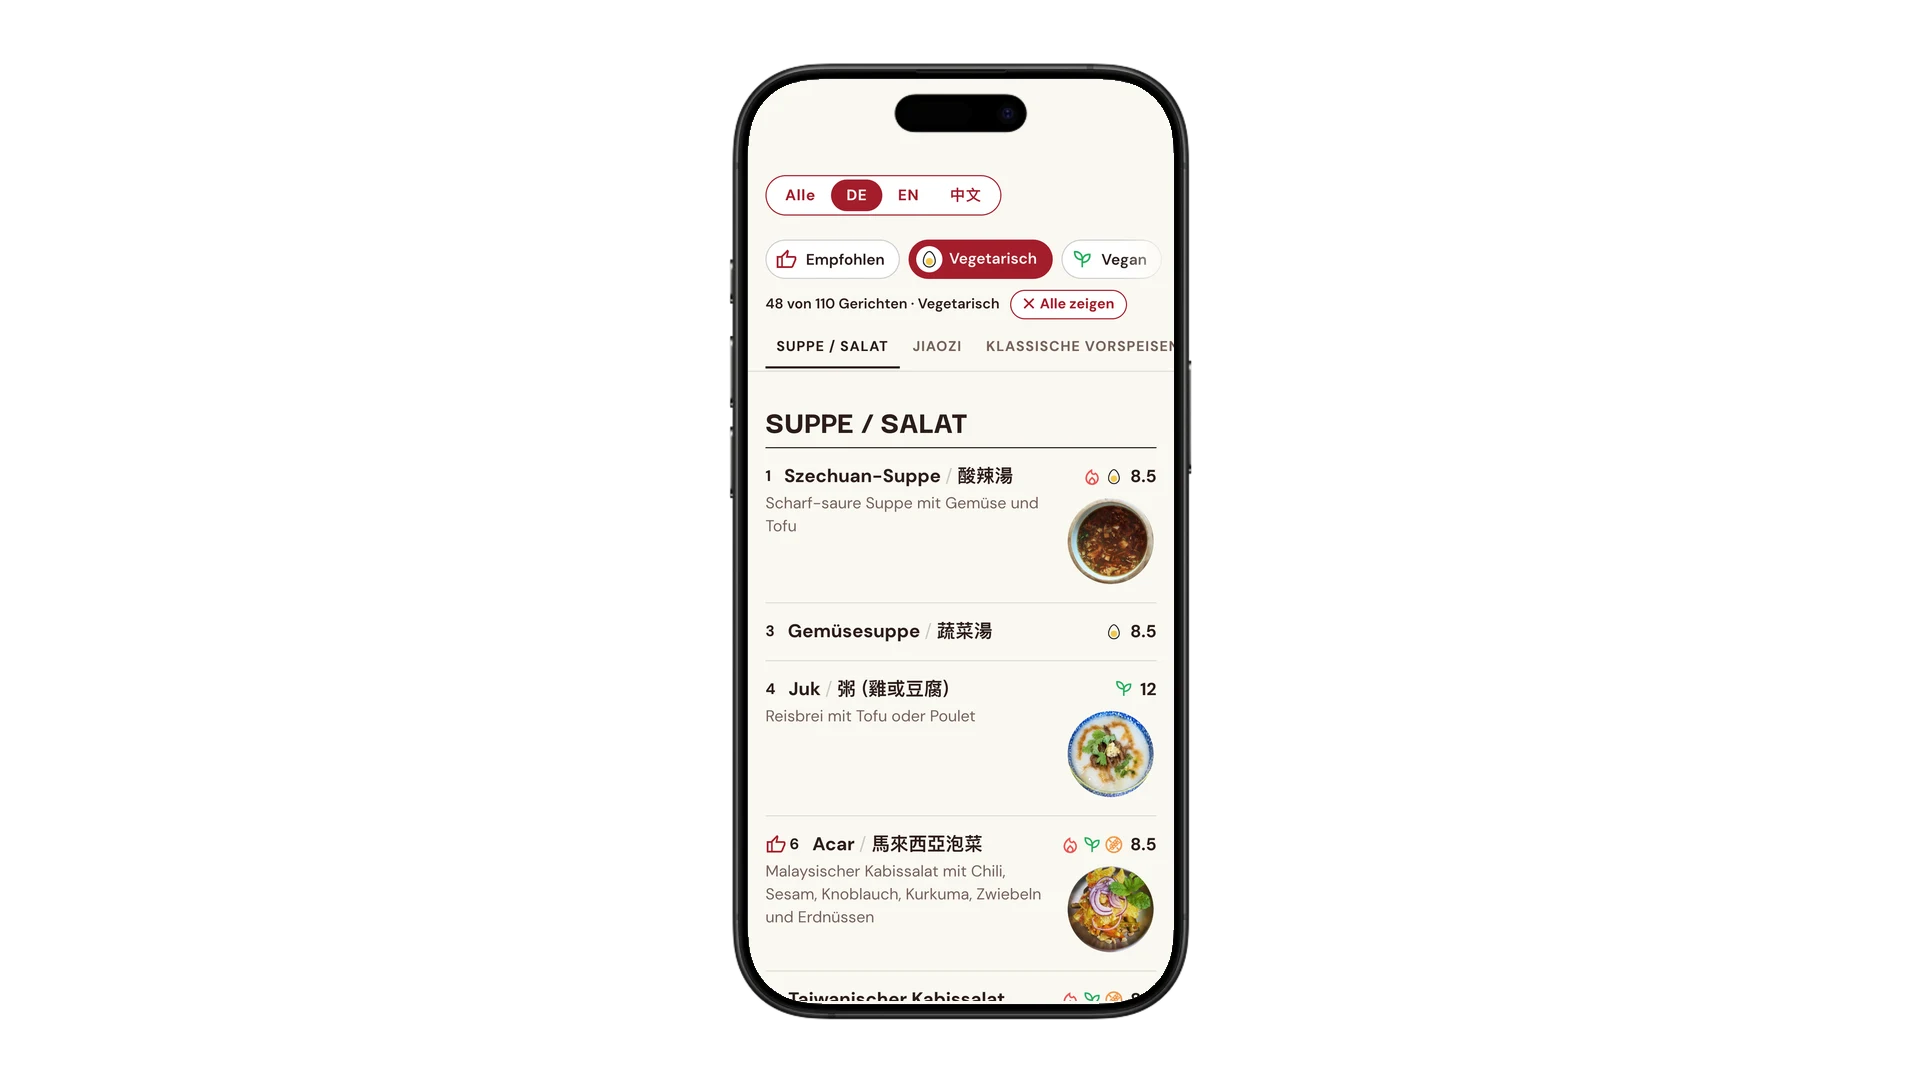
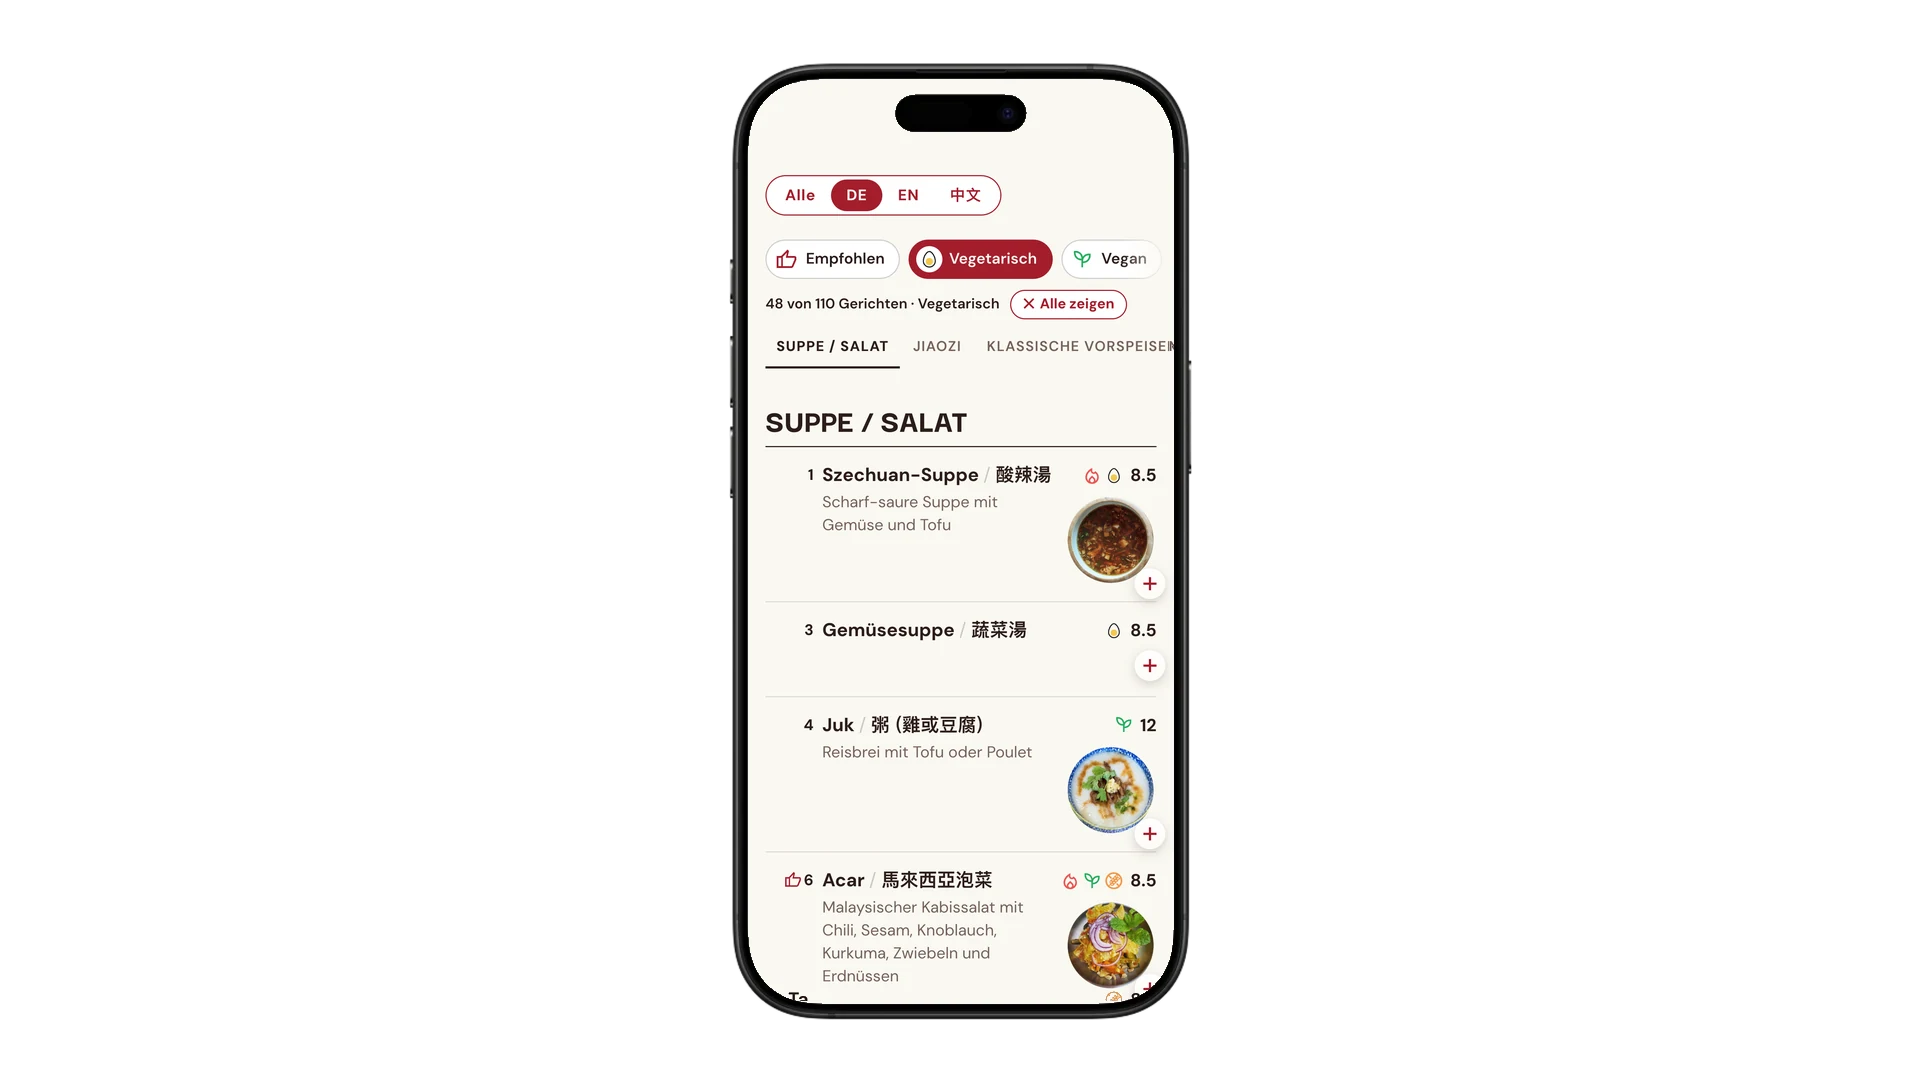
A Fatt: menu picture shows the guest selection's + buttons, live since 2026-10-26

diff --git a/src/content/projects/afatt/index.md b/src/content/projects/afatt/index.md
@@ -173,7 +173,7 @@ spreadsheet, in three languages and filterable by diet.
   <a href="/projects/menudash/">Read the MenuDash case study →</a>
 </div>
 
-![A Fatt's menu on a phone, run by MenuDash: language switch, diet filters with Vegetarisch turned on, and dishes with German and Chinese names, prices and photos](./menudash-afatt-menu.webp)
+![A Fatt's menu on a phone, run by MenuDash: language switch, diet filters with Vegetarisch turned on, and dishes with German and Chinese names, prices, photos and a + beside each dish](./menudash-afatt-menu.webp)
 
 </div>
 
